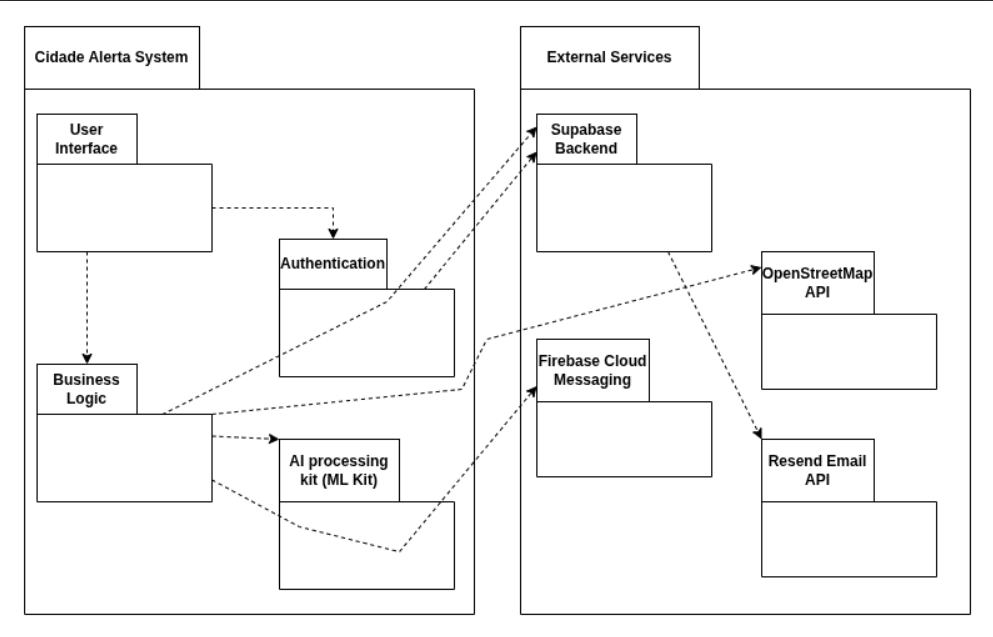
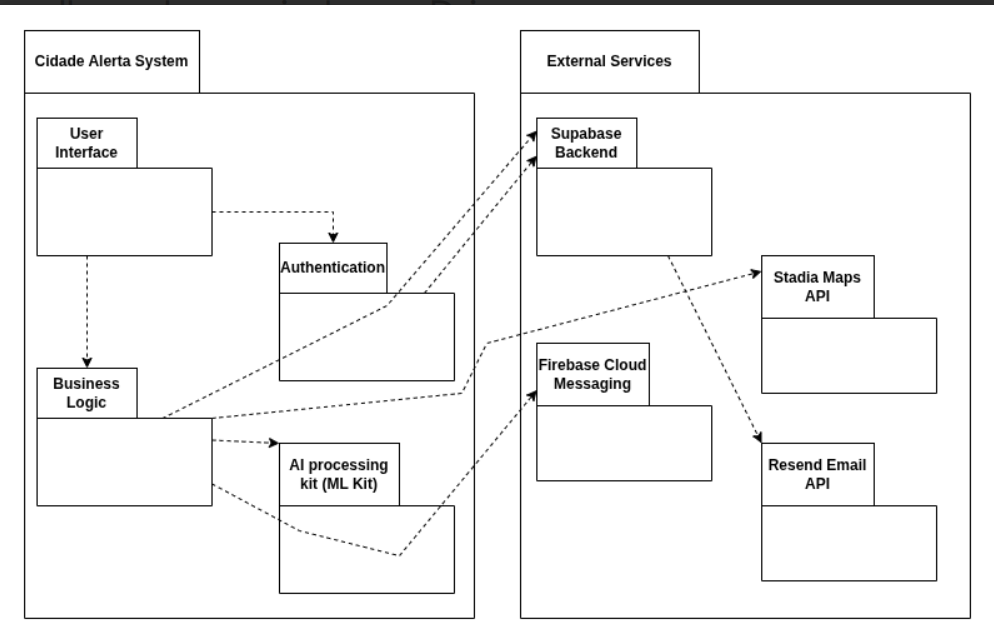
Updating Readme (OpenStreetMaps->Stadia Maps)

diff --git a/README.md b/README.md
@@ -155,7 +155,7 @@ This package represents the core application running on the user's device, struc
 **2. External Services**
 This package groups the third-party platforms and APIs consumed by the application to expand its capabilities:
 * **Supabase Backend:** Acts as the primary backend-as-a-service (BaaS). It provides the database (PostgreSQL), file storage for images, and validates requests from the Authentication module. 
-* **OpenStreetMap API:** Consumed directly by the Business Logic to fetch map tiles and perform geocoding (translating raw GPS coordinates into street addresses).
+* **Stadia Maps API:** Consumed directly by the Business Logic to fetch high-quality map tiles and perform geocoding (translating raw GPS coordinates into street addresses).
 * **Firebase Cloud Messaging:** Used by the application to push real-time notifications to the users' smartphones (e.g., status updates on reported issues).
 * **Resend Email API:** An external mailing service. Unlike the other APIs, it is not called by the mobile app, but rather invoked directly by the Supabase Backend (via Edge Functions) to dispatch automated email alerts to the respective municipal authorities.
 
@@ -169,7 +169,7 @@ The physical architecture diagram presents five main nodes:
 
 * **The Supabase Cloud:** acts as the core backend of the application. It manages user authentication, stores structured data (PostgreSQL) and media files (Storage), and runs server-side logic through Edge Functions. 
 
-* **The OpenStreetMap Server:** provides map rendering and geocoding services directly to the mobile app. 
+* **The Stadia Cloud:** an external service that provides map rendering (map tiles) and geocoding services directly to the mobile app via API.
 
 * **The Firebase Cloud:** responsible for delivering push notifications to the users. 
 
